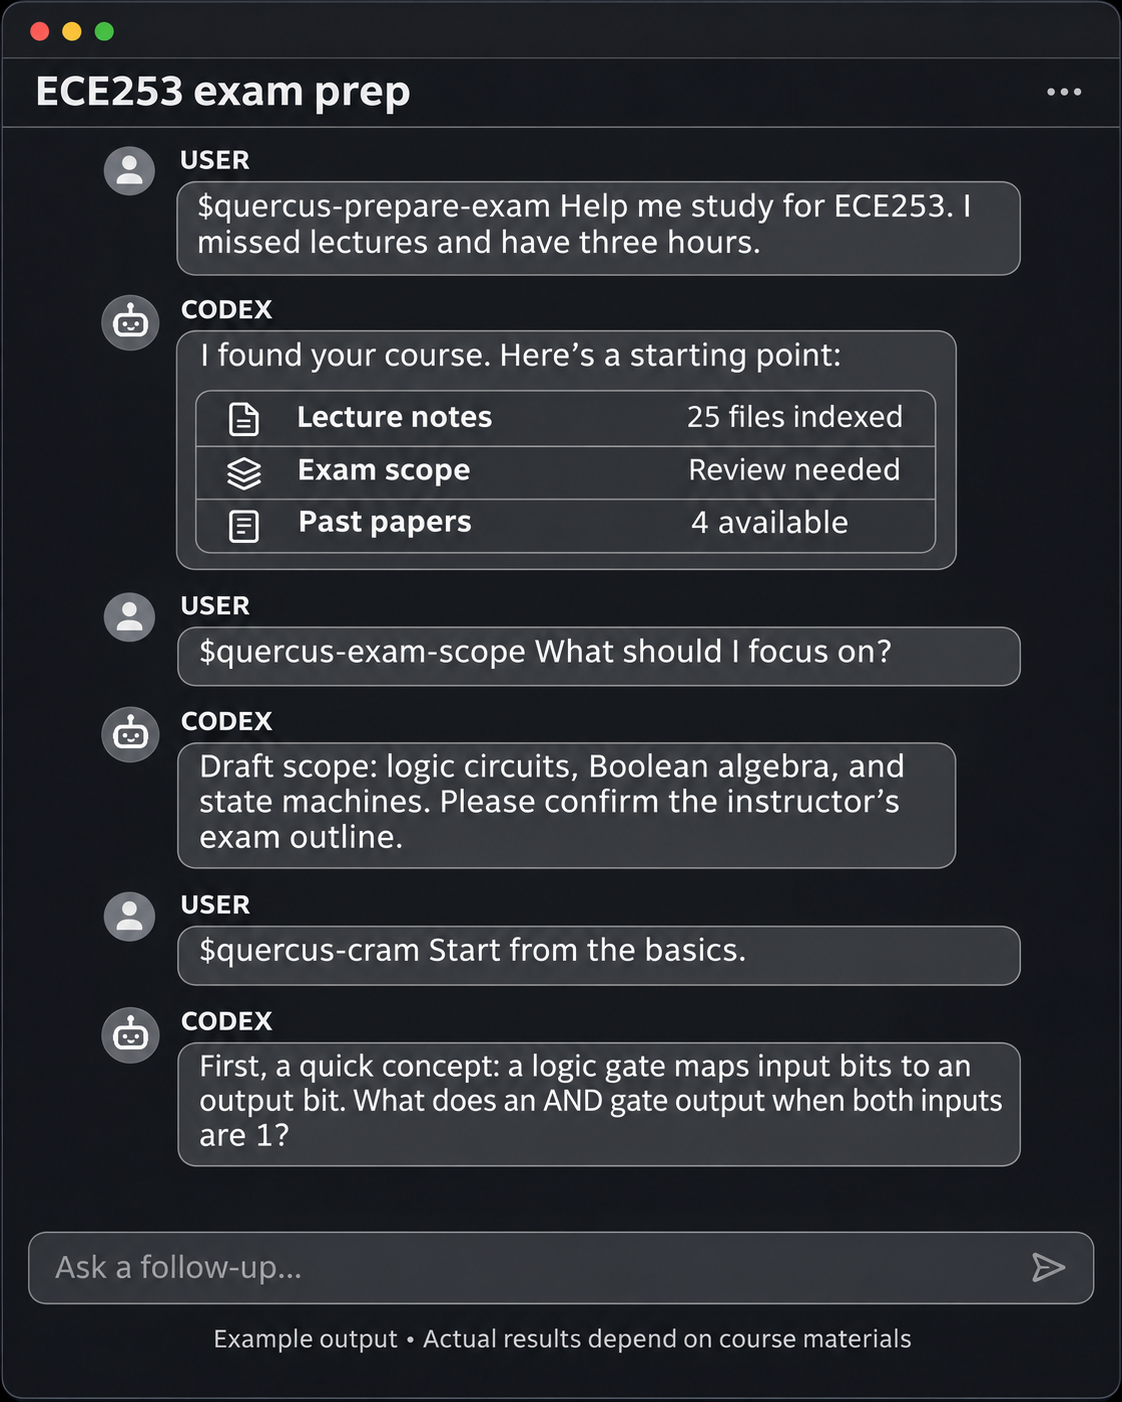
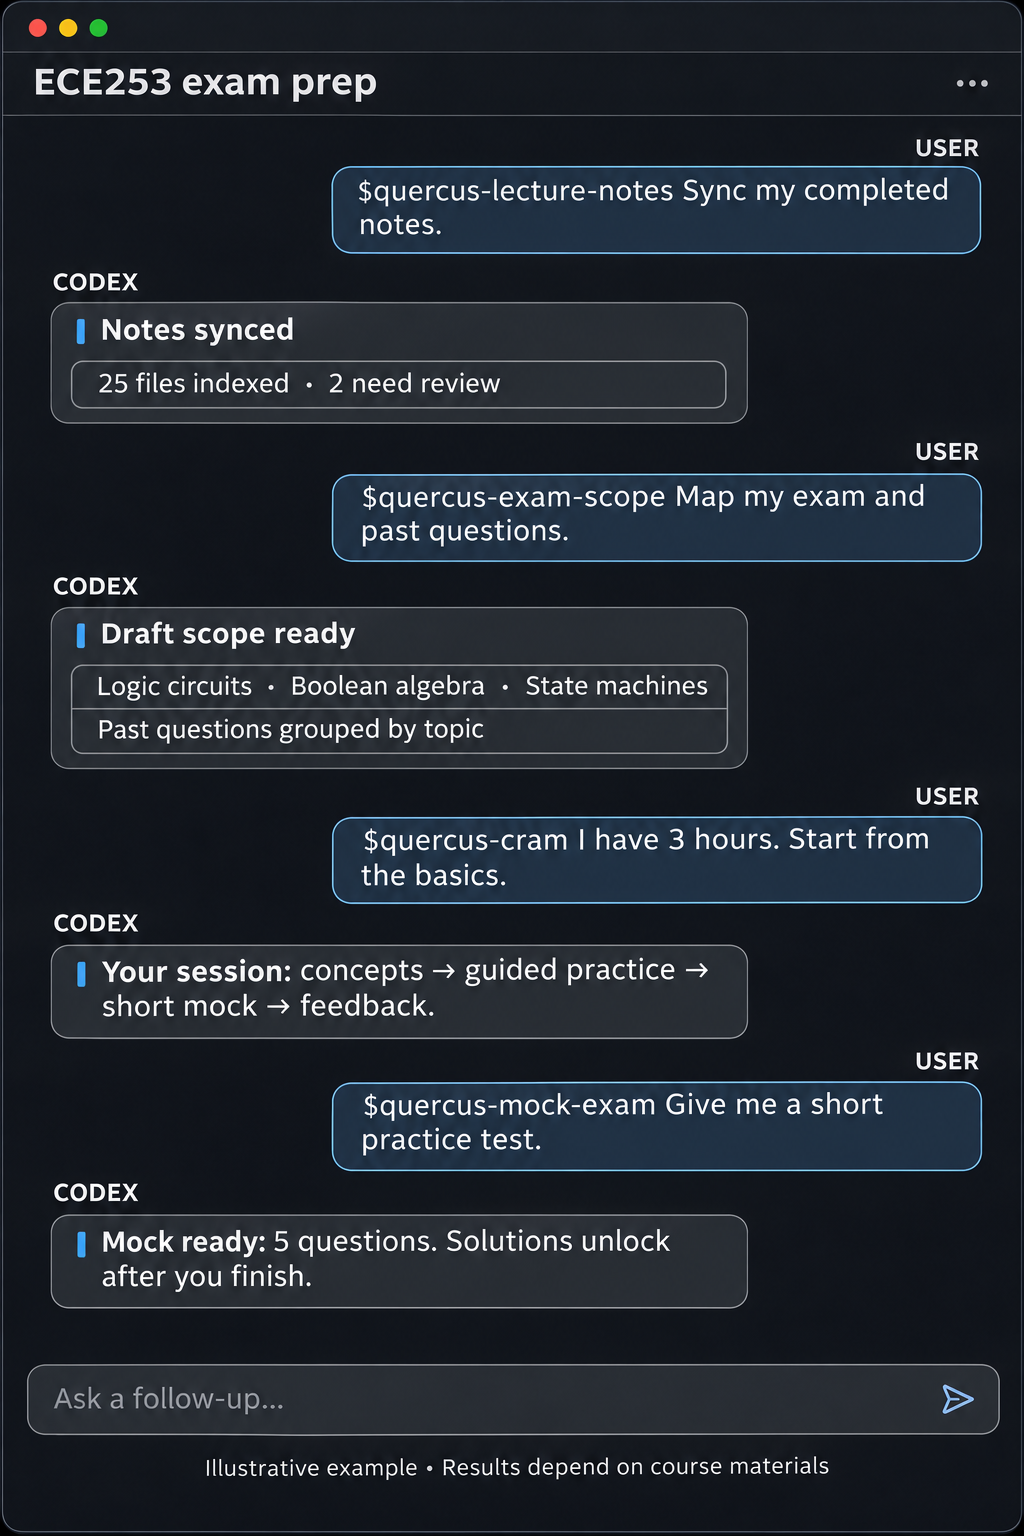
Expand the example study conversation

diff --git a/README.md b/README.md
@@ -6,7 +6,7 @@ A local Python tool and Codex skills for working with Canvas courses. Designed b
 
 This illustration shows how a student might call the exam-preparation skills and receive course-specific guidance. The outputs are examples and depend on the materials available in Canvas.
 
-![Example Codex conversation showing exam-preparation skills, a course inventory, a draft exam scope, and a practice question](assets/sample-codex-conversation.png)
+![Example Codex conversation showing lecture-note sync, exam scope and past-question mapping, a cram session, and a mock exam](assets/sample-codex-conversation.png)
 
 ## Requirements
 
